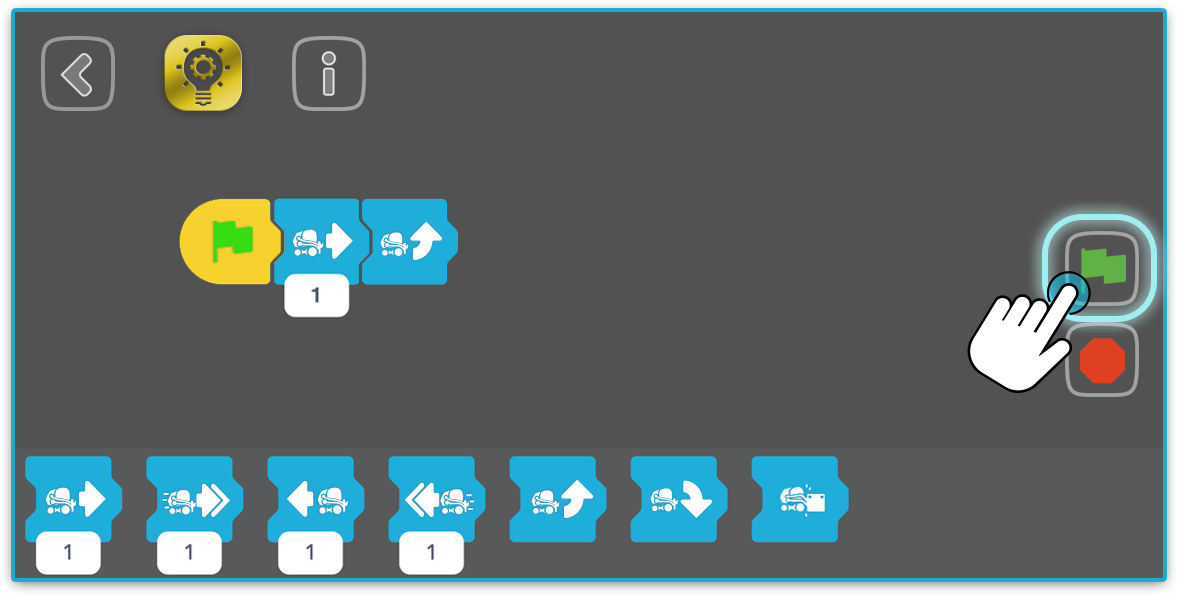
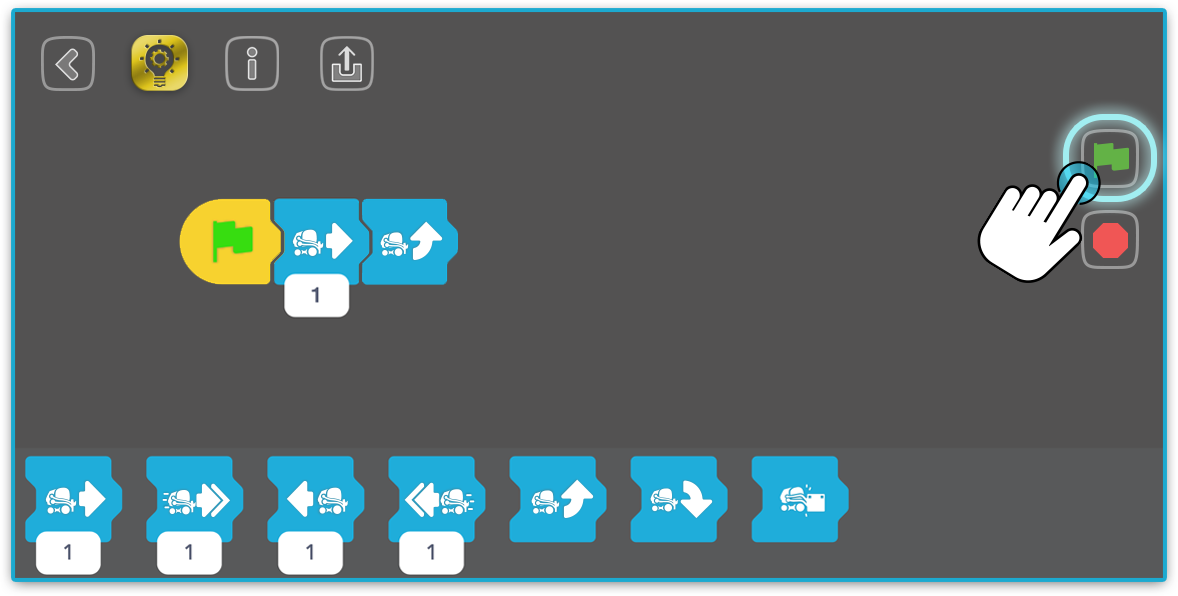
COZMO-15611 Code Lab: add export button to horizontal tutorial images (#6481)
Also COZMO-15675: Move horizontal green flag and stop sign buttons up to match vertical, per Seth's request.

Updates to horizontal's common.css taken directly from vertical's common_vertical.css.

Changed region(s): [[0.7946, 0.1812, 1.0, 0.6644], [0.0306, 0.0604, 0.3362, 0.2114]]

diff --git a/unity/Cozmo/Assets/StreamingAssets/Scratch/css/common.css b/unity/Cozmo/Assets/StreamingAssets/Scratch/css/common.css
@@ -300,18 +300,18 @@ button:focus {
 #navigation {
     display: block;
     position: absolute;
-    top: calc(100% - 350px);
-    left: 0;
-    width: 100%;
-    height: 200px;
+    top: 150px;
+    left: calc(100% - 80px);
+    width: 5%;
+    height: 170px;
     z-index: 1;
     pointer-events: none;
 }
 
+
 #navigation .greenflag {
     display: block;
     position: absolute;
-    left: calc(100% - 90px);
 }
 
 #navigation .greenflag button {
@@ -339,8 +339,7 @@ button:focus {
 #navigation .stop {
     display: block;
     position: absolute;
-    left: calc(100% - 90px);
-    top: 85px;
+    top: 90px;
 }
 
 #navigation .stop button {
@@ -475,10 +474,6 @@ button:focus {
 
 
 @media only screen and (max-width: 799px) {
-    #navigation {
-        top: calc(100% - 250px);
-    }
-
     #close .primary {
         display: block;
         position: absolute;
@@ -600,9 +595,13 @@ button:focus {
         background-position: 0 -22px;
     }
 
-    #navigation .greenflag {
+    #navigation {
+        top: calc(100% - 260px);
         left: calc(100% - 40px);
-        top: calc(100% - 160px);
+        height: 75px;
+        width: 4.5%;
+        border-width: 1px;
+        border-bottom-width: 1px;
     }
 
     #navigation .greenflag button {
@@ -622,8 +621,7 @@ button:focus {
 
 
     #navigation .stop {
-        left: calc(100% - 40px);
-        top: calc(100% - 115px);
+        top: calc(100% - 35px);
     }
 
     #navigation .stop button {
@@ -639,5 +637,19 @@ button:focus {
 
     .blocklyTooltipDiv {
         font-size: 10pt;
+    }
+}
+
+
+
+/* Used by Kindle Fire HD 8, 962 x 601 */
+@media only screen and (min-height: 590px) and (max-height: 605px) {
+    #navigation {
+        top: calc(100% - 490px);
+        height: 150px;
+   }
+
+    #navigation .stop {
+        top: calc(100% - 75px);
     }
 }
